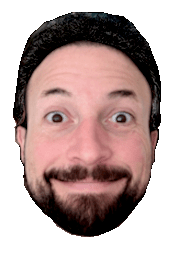
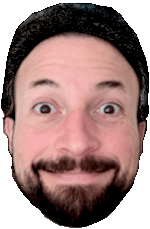
make responsive

diff --git a/index.html b/index.html
@@ -1,36 +1,41 @@
 <!DOCTYPE html>
 <meta charset="UTF-8">
+
 <head>
-  <title>Ah Ah Ah, you didn't say the magic word!</title>
+	<title>Jeff Nedry Secured</title>
 </head>
 <html>
-  <body>
-    <div class="container" onclick="playSound()">
-      <div class="nedry">
-        <img class="nedry-body" src="resources/body.png">
-        <img class="nedry-head" src="resources/head.png">
-        <img class="nedry-hand" src="resources/hand.png">
-      </div>
-      <audio id="player" autoplay loop>
-        <source src="resources/ahahah.mp3" type="audio/mp3">
-      </audio>
-      <input id="unmuteButton" type="button" onclick="playSound()" value="🔈 Unmute" />
-    </div>
-  </body>
-  <link rel="stylesheet" href="resources/style.css">
 
-  <script>
-    const sound = document.getElementById('player');
+<body>
+	<div class="container" onclick="playSound()">
+		<div class="nedry">
+			<img class="nedry-body" src="resources/body.png">
+			<img class="nedry-head" src="resources/head.png">
+			<img class="nedry-hand" src="resources/hand.png">
+		</div>
+		<audio id="player" autoplay loop>
+			<source src="resources/ahahah.mp3" type="audio/mp3">
+		</audio>
+		<button id="unmuteButton" onclick="playSound()">
+			🔇 Unmute
+		</button>
+	</div>
+</body>
+<link rel="stylesheet" href="resources/style.css">
 
-    sound.addEventListener('play', (event) => {
-      document.getElementById("unmuteButton").hidden = true;
-    });
-    sound.addEventListener('pause', (event) => {
-      document.getElementById("unmuteButton").hidden = false;
-    });
+<script>
+	const sound = document.getElementById('player');
 
-    function playSound() {
-      document.getElementById("player").play();
-    }
-  </script>
+	sound.addEventListener('play', (event) => {
+		document.getElementById("unmuteButton").hidden = true;
+	});
+	sound.addEventListener('pause', (event) => {
+		document.getElementById("unmuteButton").hidden = false;
+	});
+
+	function playSound() {
+		document.getElementById("player").play();
+	}
+</script>
+
 </html>

diff --git a/resources/style.css b/resources/style.css
@@ -1,49 +1,66 @@
-.nedry {
-  position: relative;
-  top: 0;
-  left: 0;
+html {
+	height: 100vh;
+}
+body {
+	height: 100%;
+	margin: 0;
+	background:
+		radial-gradient(ellipse at top, #fff8c4, transparent),
+		radial-gradient(ellipse at bottom, #e88dff, transparent);
 }
 
-htlm, .container {
-  width: 95vw;
-  height: 100%;
-  bottom: 0;
-  position: absolute;
+.container {
+	display: flex;
+	flex-flow: column;
+	align-items: center;
+	justify-content: center;
+	width: 100%;
+	height: 100%;
+	gap: 1.5rem;
+}
+
+button {
+	font-size: 2rem;
+	border: solid 0.15em #aaa;
+	border-radius: 0.15em;
+	color: #333;
+	position: fixed;
+	bottom: 2rem;
+	right: 2rem;
+}
+
+.nedry {
+	position: relative;
+	width: 90vmin;
+	height: 90vmin;
 }
 
 .nedry-body {
-  position: relative;
-  top: 0;
-  left: 0;
+	height: 69%;
+	object-position: bottom;
+	position: absolute;
+	bottom: 0;
+	left: 26%;
 }
 
 .nedry-head {
-  position: absolute;
-  top: 35px;
-  left: 140px;
+	position: absolute;
+	top: 0;
+	left: 35%;
+	height: 49%;
 }
 
-.nedry-hand{
-  position: absolute;
-  top: 155px;
-  left: 265px;
-  animation: handFrames linear 1s;
-  animation-iteration-count: infinite;
-  transform-origin: 50% 100%;
-  -webkit-animation: handFrames linear 0.7s;
-  -webkit-animation-iteration-count: infinite;
-  -webkit-transform-origin: 50% 100%;
+.nedry-hand {
+	position: absolute;
+	top: 25%;
+	left: 62%;
+	transform-origin: 50% 90%;
+	height: 35%;
+	animation: handFrames 0.7s linear infinite;
 }
 
-@keyframes handFrames{
-  0% {
-    transform:  rotate(-10deg) ;
-  }
-  50% {
-    transform:  rotate(14deg) ;
-  }
-  100% {
-    transform:  rotate(-10deg) ;
-  }
+@keyframes handFrames {
+	0%   { transform: rotate(-10deg); }
+	50%  { transform: rotate(14deg ); }
+	100% { transform: rotate(-10deg); }
 }
-
